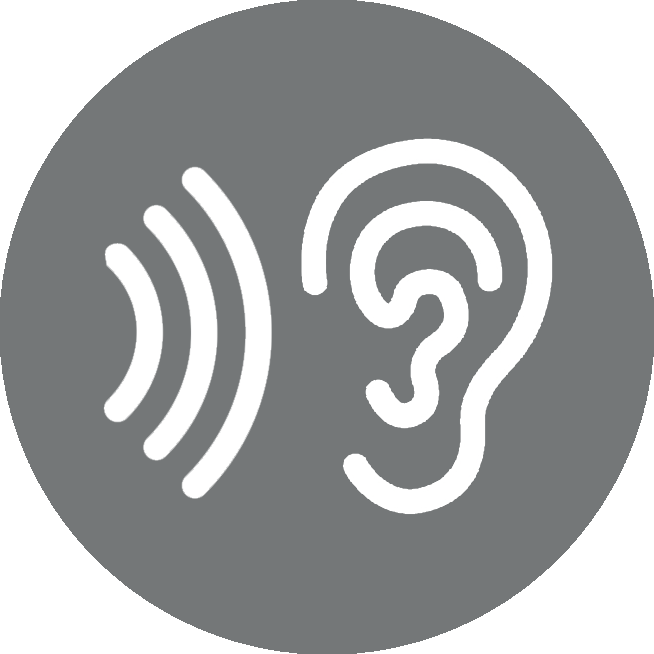
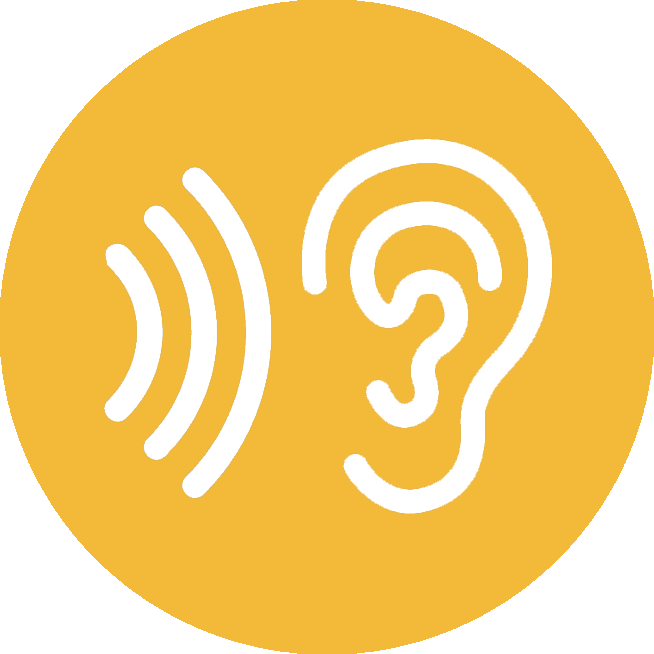
Added color to svg images and changed colors to be more accurate

diff --git a/index.html b/index.html
@@ -79,19 +79,19 @@
                         }
 
                         .reading {
-                            fill: #ce4929;
+                            fill: #c63b2e;
                         }
 
                         .speaking {
-                            fill: #125f81;
+                            fill: #1c506a;
                         }
 
                         .writing {
-                            fill: #8c9437;
+                            fill: #a6b042;
                         }
 
                         .listening {
-                            fill: #eba51e;
+                            fill: #f3b938;
                         }
 
                         path.reading:hover {
@@ -367,19 +367,19 @@
                         }
 
                         .reading {
-                            fill: #ce4929;
+                            fill: #c63b2e;
                         }
 
                         .speaking {
-                            fill: #125f81;
+                            fill: #1c506a;
                         }
 
                         .writing {
-                            fill: #8c9437;
+                            fill: #a6b042;
                         }
 
                         .listening {
-                            fill: #eba51e;
+                            fill: #f3b938;
                         }
 
                         path.reading:hover {
